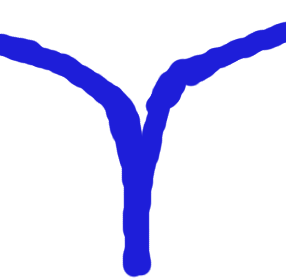
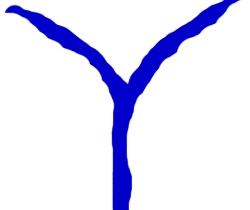
Have the GUI working with controller

Changed region(s): [[0.0, 0.0, 1.0, 1.0]]

diff --git a/src/GUI/PaintHex.java b/src/GUI/PaintHex.java
@@ -77,20 +77,20 @@ public class PaintHex extends JPanel{
 
     public void fillHex(int i, int j, int rot, String type, int rivers,  Graphics2D g2) {
         String riverType;
+        riverType = getRiverType(rivers);
+        File img = new File("./GameTrails-and-Crocodiles/src/GUI/" + type + ".jpg");
+        File img2 = new File("./GameTrails-and-Crocodiles/src/GUI/" + riverType);
+
+        BufferedImage bi = null;
+        BufferedImage bi2 = null;
+        BufferedImage transparentImage = null;
+
         int vert;
         int horiz = radius +(j*((width/4*3)));
         if(j % 2 == 0)
             vert = radius +(i * height);
         else
             vert = 10 + ((i+1) * (height));
-        riverType = getRiverType(rivers);
-
-            File img = new File("./GameTrails-and-Crocodiles/src/GUI/" + type + ".jpg");
-            File img2 = new File("./GameTrails-and-Crocodiles/src/GUI/" + riverType);
-
-            BufferedImage bi = null;
-            BufferedImage bi2 = null;
-            BufferedImage transparentImage = null;
 
         if(type == null) {return;}
         else{
@@ -100,7 +100,6 @@ public class PaintHex extends JPanel{
                 System.err.println("Could not load image file!");
             }
         }
-
         if(riverType != null){
             try {
               bi2 = ImageIO.read(img2);
@@ -118,7 +117,12 @@ public class PaintHex extends JPanel{
             g2.rotate(Math.toRadians(rot * 60), horiz, vert);
             g2.setClip(setHex(horiz, vert));
             g2.drawImage(bi.getScaledInstance(230, 320, 0), horiz - radius, vert - 150, null);
-            g2.drawImage(transparentImage, horiz - radius, vert - 150, null);
+            if(riverType != null && riverType.equals("source.PNG"))
+            g2.drawImage(transparentImage, 40, 50, null);
+            else if(riverType != null && riverType.equals("sharpbend.PNG"))
+                g2.drawImage(transparentImage, 30, -50, null);
+            else if(riverType != null && riverType.equals("Y.PNG"))
+                g2.drawImage(transparentImage, -25, 20, null);
             g2.setColor(Color.BLACK);
             g2.setStroke(new BasicStroke(10));
             g2.draw(setHex(horiz, vert));

diff --git a/src/Model/Tile/Tile.java b/src/Model/Tile/Tile.java
@@ -31,7 +31,7 @@ public class Tile {
     }
     public String getTileType(){return this.feature.getType();}
     public int getTileOrientation(){return this.orientation.getRotations();}
-    public int getNumberOfRivers(){return numberOfRivers;}
+    public int getNumberOfRivers(){return this.numberOfRivers;}
     public void  setTileEdgeFeature(int tileEdgeFeaturePosition, FeatureType feature){tileEdges[tileEdgeFeaturePosition].setFeatureType(feature);}
     public FeatureType getTileEdgeFeature(int tileEdgePosition){
         return tileEdges[tileEdgePosition].getFeatureType();
